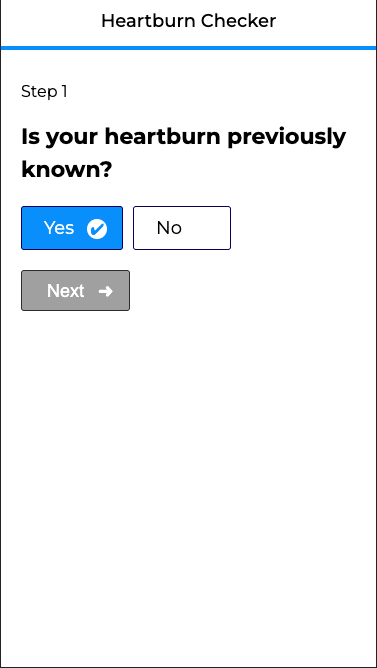
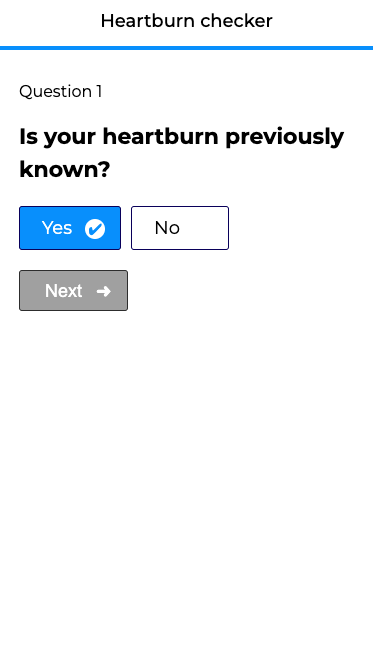
updating text in questionnaire view and readme images

diff --git a/src/components/views/Questionnaire/Questionnaire.js b/src/components/views/Questionnaire/Questionnaire.js
@@ -140,13 +140,13 @@ export default function Questionnaire({ data }) {
         {!isOutcome && Object.keys(scores).length > 1 &&
           <p className={styles['rewind-btn']} onClick={handleRewind}>&#10094;</p>
         }
-        <Heading text="Heartburn Checker" weight="500" size="18px" />
+        <Heading text="Heartburn checker" weight="500" size="18px" />
       </header>
       <section className={styles.container}>
         <div className={styles.question}>
           {!isOutcome &&
             <div>
-              <p className={styles.step}>Step {Object.keys(scores).length ? Object.keys(scores).length : 1 }</p>
+              <p className={styles.step}>Question {Object.keys(scores).length ? Object.keys(scores).length : 1 }</p>
               <Heading text={getQuestion(questionId)?.question_text} weight="700" size="22px" />
             </div>
           }   
